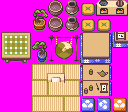
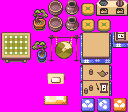
some tileset, some small scripting

Changed region(s): [[0.25, 0.5625, 0.625, 1.0]]

diff --git a/src/data/heal_locations.h b/src/data/heal_locations.h
@@ -30,4 +30,5 @@ static const struct HealLocation sHealLocations[] =
     [HEAL_LOCATION_WINDY_CAPE - 1] = {MAP_GROUP(WINDY_CAPE), MAP_NUM(WINDY_CAPE), 51, 36},
     [HEAL_LOCATION_YIFU_CITY - 1] = {MAP_GROUP(YIFU_CITY), MAP_NUM(YIFU_CITY), 48, 24},
     [HEAL_LOCATION_SOULKEEP - 1] = {MAP_GROUP(SOULKEEP), MAP_NUM(SOULKEEP), 10, 10},
+    [HEAL_LOCATION_SUNRISE_VILLAGE - 1] = {MAP_GROUP(SUNRISE_VILLAGE), MAP_NUM(SUNRISE_VILLAGE), 13, 13},
 };

diff --git a/include/constants/metatile_behaviors.h b/include/constants/metatile_behaviors.h
@@ -76,8 +76,8 @@
 #define MB_TRICK_HOUSE_PUZZLE_8_FLOOR 0x48
 #define MB_CHEST_OPEN 0x49
 #define MB_CHEST_CLOSED 0x4A
-#define MB_UNUSED_4B 0x4B
-#define MB_UNUSED_4C 0x4C
+#define MB_SCROLL    0x4B
+#define MB_HEARTH    0x4C
 #define MB_UNUSED_4D 0x4D
 #define MB_UNUSED_4E 0x4E
 #define MB_UNUSED_4F 0x4F

diff --git a/include/constants/heal_locations.h b/include/constants/heal_locations.h
@@ -32,5 +32,6 @@
 #define HEAL_LOCATION_WINDY_CAPE 28
 #define HEAL_LOCATION_YIFU_CITY 29
 #define HEAL_LOCATION_SOULKEEP 30
+#define HEAL_LOCATION_SUNRISE_VILLAGE 31
 
 #endif // GUARD_CONSTANTS_HEAL_LOCATIONS_H
